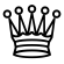
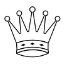
v0.4 + Updating pieces images + improving positions

diff --git a/src/tn/rnu/isi/glsi/minichess/ui/Board.java b/src/tn/rnu/isi/glsi/minichess/ui/Board.java
@@ -159,6 +159,15 @@ public class Board extends JFrame implements MouseListener, MouseMotionListener 
             addPiece(pieces[i]);
         }
     }
+    
+    //method sets image of a label at a certain position in the board according to the block name i.e D4
+    public void addPiece(Piece piece) {
+        for (Piece p : pieces) {
+            if (p.getName().equalsIgnoreCase(piece.getPosition())) {
+                p.setIcon(piece.getImgIcon());
+            }
+        }
+    }
 
     //this method will create squares with backround images of chess board and set its name according to 1-8 for rows and A-H for coloumns
     private void addPanelsAndImages() {
@@ -241,14 +250,5 @@ public class Board extends JFrame implements MouseListener, MouseMotionListener 
 
     @Override
     public void mouseExited(MouseEvent e) {
-    }
-
-    //method sets image of a label at a certain position in the board according to the block name i.e D4
-    public void addPiece(Piece piece) {
-        for (Piece p : pieces) {
-            if (p.getName().equalsIgnoreCase(piece.getPosition())) {
-                p.setIcon(piece.getImgIcon());
-            }
-        }
     }
 }

diff --git a/src/tn/rnu/isi/glsi/minichess/core/Piece.java b/src/tn/rnu/isi/glsi/minichess/core/Piece.java
@@ -47,16 +47,16 @@ public class Piece extends JLabel {
 
     // Initial Positions
     public static final String[] INITIALPOSITIONS = {
-        BKn, BBi, BKi, BQu, BTo,
+        BKn, BBi, BQu, BKi, BTo,
         BPa, BPa, BPa, BPa, BPa,
         EPi, EPi, EPi, EPi, EPi,
         EPi, EPi, EPi, EPi, EPi,
         EPi, EPi, EPi, EPi, EPi,
         EPi, EPi, EPi, EPi, EPi,
         WPa, WPa, WPa, WPa, WPa,
-        WKn, WBi, WKi, WQu, WTo,};
+        WKn, WBi, WQu, WKi, WTo,};
 
-    // Initial Positions
+    // Positions Names
     public static final String[] POSITIONS = {
         "A8", "B8", "C8", "D8", "E8",
         "A7", "B7", "C7", "D7", "E7",
